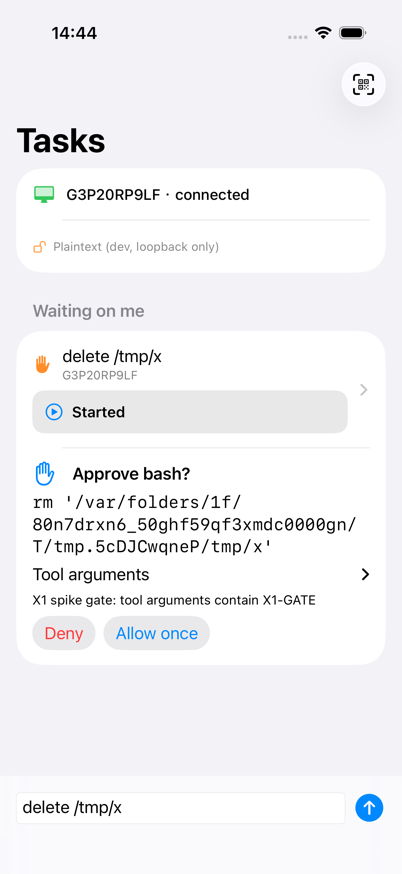
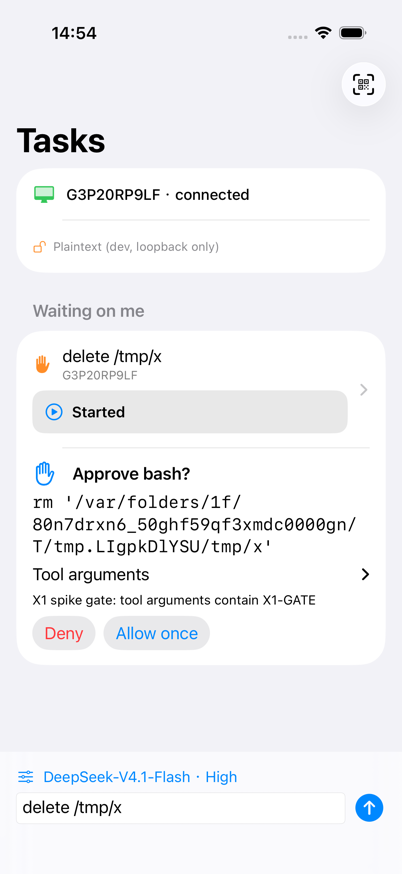
Recover held approvals and model choice across resume and interrupt

diff --git a/bridge/test/s2.test.ts b/bridge/test/s2.test.ts
@@ -3,6 +3,12 @@
  * that outlive the connection that created them. All against FakeDSH.
  */
 import assert from 'node:assert/strict'
+import { mkdtempSync, rmSync } from 'node:fs'
+import { tmpdir } from 'node:os'
+import { join } from 'node:path'
+import { ApprovalHolder } from '../src/approvals/holder.ts'
+import { ApprovalDecision, ApprovalOutcome } from '../src/gen/approvals_pb.ts'
+import { TaskHub } from '../src/s2/task-hub.ts'
 import { after, describe, test } from 'node:test'
 import { create, fromBinary, toBinary, type MessageInitShape } from '@bufbuild/protobuf'
 import { WebSocket } from 'ws'
@@ -17,7 +23,7 @@ import { FakeDSH, type FakeDSHOptions } from './fake-dsh.ts'
 type RequestBody = NonNullable<MessageInitShape<typeof FrameSchema>['kind']> extends infer K
   ? K extends { case: 'request'; value: infer V } ? V extends { body?: infer B } ? B : never : never : never
 
-async function connect(port: number) {
+async function connect(port: number, capabilities: string[] = []) {
   const ws = new WebSocket(`ws://127.0.0.1:${port}${PLAINTEXT_PATH}`)
   ws.binaryType = 'nodebuffer'
   const frames: Frame[] = []
@@ -55,7 +61,7 @@ async function connect(port: number) {
     },
     close() { ws.close() },
   }
-  await client.call({ case: 'hello', value: { protocolVersion: 1 } })
+  await client.call({ case: 'hello', value: { protocolVersion: 1, capabilities } })
   return client
 }
 
@@ -268,5 +274,53 @@ test('legacyResumeAndListOmitTemporaryUpstreamApprovalRows', async () => {
     if (list.body.case === 'taskList') assert.deepEqual(list.body.value.tasks, [])
   } finally {
     client.close()
+  }
+})
+
+test('waitingTaskSwitchesModelResumesBothFieldsAndInterruptCancelsApproval', async t => {
+  const dir = mkdtempSync(join(tmpdir(), 'dshm-waiting-task-'))
+  t.after(() => rmSync(dir, { recursive: true, force: true }))
+  const dsh = new FakeDSH({ reply: ['slow response'], chunkDelayMs: 2000 })
+  const tasks = new DshTasks(dsh, dir)
+  const hub = new TaskHub(tasks, new HostLog(1))
+  const approvals = new ApprovalHolder(join(dir, 'audit.jsonl'), event => hub.approvalChanged(event))
+  const server = await startBridgeServer({ host: '127.0.0.1', channel: new PlaintextChannel(), port: 0, tasks, hub, approvals })
+  servers.push(server)
+  const writer = await connect(server.port, ['approvals.v1'])
+  const created = await writer.call({ case: 'createTask', value: { prompt: 'hold for approval' } })
+  assert.ok(created.body.case === 'taskCreated')
+  const taskId = created.body.value.taskId
+  const held = approvals.hold({
+    agent: { session: { id: taskId, deriveMessages: () => [] } }, toolName: 'bash',
+  }, async () => 'unavailable')
+  const selection = { provider: 'provider', model: 'model', reasoningEffort: 'high' }
+  const changed = await writer.call({ case: 'selectModel', value: { taskId, selection } })
+  assert.equal(changed.body.case, 'modelSelected')
+  await writer.until(() => hub.list()[0].modelSelection?.reasoningEffort === 'high')
+  writer.close()
+
+  const reader = await connect(server.port, ['approvals.v1'])
+  try {
+    const resumed = await reader.call({ case: 'resume', value: { logId: hub.log.logId, afterSeq: 0n } })
+    assert.ok(resumed.body.case === 'resumed' && resumed.body.value.reset)
+    const listing = await reader.call({ case: 'listTasks', value: {} })
+    assert.ok(listing.body.case === 'taskList')
+    const [row] = listing.body.value.tasks
+    assert.equal(row.state, TaskState.WAITING_ON_USER)
+    assert.equal(row.modelSelection?.reasoningEffort, 'high')
+    assert.equal(row.pendingApprovals.length, 1)
+    const approvalId = row.pendingApprovals[0].id
+    const interrupted = await reader.call({ case: 'interrupt', value: { taskId } })
+    assert.equal(interrupted.body.case, 'interruptAccepted')
+    assert.equal(await held, 'cancelled')
+    const stale = await reader.call({ case: 'answerApproval', value: { id: approvalId, decision: ApprovalDecision.ALLOW_ONCE } })
+    assert.ok(stale.body.case === 'error' && stale.body.value.code === 'approval/refused')
+    await reader.until(frames => endedCount(frames) === 1)
+    assert.ok(reader.events().some(e => e.body.case === 'approvalResolved' && e.body.value.outcome === ApprovalOutcome.CANCELLED))
+    assert.equal(hub.list()[0].state, TaskState.INTERRUPTED)
+    assert.equal(hub.list()[0].pendingApprovals.length, 0)
+  } finally {
+    approvals.close()
+    reader.close()
   }
 })

diff --git a/bridge/src/gen/s2_pb.ts b/bridge/src/gen/s2_pb.ts
@@ -13,13 +13,15 @@ import type { GenEnum, GenFile, GenMessage } from "@bufbuild/protobuf/codegenv2"
 import { enumDesc, fileDesc, messageDesc } from "@bufbuild/protobuf/codegenv2";
 import type { ApprovalPending } from "./approvals_pb.js";
 import { file_approvals } from "./approvals_pb.js";
+import type { ModelSelection } from "./models_pb.js";
+import { file_models } from "./models_pb.js";
 import type { Message } from "@bufbuild/protobuf";
 
 /**
  * Describes the file s2.proto.
  */
 export const file_s2: GenFile = /*@__PURE__*/
[2 lines of base64/hex data omitted]
 
 /**
  * @generated from message dshm.v1.TaskSummary
@@ -72,6 +74,13 @@ export type TaskSummary = Message<"dshm.v1.TaskSummary"> & {
    * @generated from field: bool approval_only = 81;
    */
   approvalOnly: boolean;
+
+  /**
+   * Last selection reported by DSH, including when its event is older than the retained log.
+   *
+   * @generated from field: dshm.v1.ModelSelection model_selection = 120;
+   */
+  modelSelection?: ModelSelection | undefined;
 };
 
 /**

diff --git a/ios/dsh-mobileUITests/S4ApprovalUITests.swift b/ios/dsh-mobileUITests/S4ApprovalUITests.swift
@@ -86,4 +86,43 @@ final class S4ApprovalUITests: XCTestCase {
         XCTAssertTrue(card.waitForNonExistence(timeout: 10))
         try await post("/fake-web/close")
     }
+
+    func testSwitchWhileHeldResumeThenInterrupt() throws {
+        try XCTSkipIf(env["DSHM_S4_COMMAND"] == nil, "needs scripts/demo/s4.sh")
+        let command = try XCTUnwrap(env["DSHM_S4_COMMAND"])
+        var app = launch(reset: true)
+        let picker = app.buttons["model.open"]
+        XCTAssertTrue(picker.waitForExistence(timeout: 20))
+        picker.tap()
+        let low = app.buttons["model.effort.low"]
+        XCTAssertTrue(low.waitForExistence(timeout: 10))
+        low.tap()
+        app.buttons["model.apply"].tap()
+        send(app)
+        checkCommand(app, expected: command)
+
+        picker.tap()
+        let high = app.buttons["model.effort.high"]
+        XCTAssertTrue(high.waitForExistence(timeout: 10))
+        high.tap()
+        app.buttons["model.apply"].tap()
+        var transcript = app.descendants(matching: .any)["transcript.text"]
+        wait(for: [expectation(for: NSPredicate(format: "value CONTAINS %@", " · high]"), evaluatedWith: transcript)], timeout: 15)
+        checkCommand(app, expected: command)
+        app.terminate()
+
+        app = launch(reset: false)
+        checkCommand(app, expected: command)
+        let row = app.buttons.matching(identifier: "tasklist.row").matching(NSPredicate(format: "value == 'waitingOnUser'")).firstMatch
+        XCTAssertTrue(row.waitForExistence(timeout: 15), app.debugDescription)
+        row.tap()
+        transcript = app.descendants(matching: .any)["transcript.text"]
+        XCTAssertTrue((transcript.value as? String)?.contains(" · high]") == true)
+        let stop = app.buttons["task.interrupt"]
+        XCTAssertTrue(stop.waitForExistence(timeout: 10))
+        stop.tap()
+        waitForValue(app.descendants(matching: .any)["task.status"], in: ["interrupted"], timeout: 30)
+        XCTAssertTrue(app.buttons["approval.allow"].waitForNonExistence(timeout: 5))
+        saveShot("s4-interrupted-held-task")
+    }
 }

diff --git a/ios/DSHKit/Sources/DSHCore/Sync/TaskListStore.swift b/ios/DSHKit/Sources/DSHCore/Sync/TaskListStore.swift
@@ -361,11 +361,7 @@ public final class TaskListStore {
             task.logID = host.logID
         case .modelSelected(let taskID, let selection):
             let task = taskRecord(hostKey: link.key, taskID: taskID, title: "")
-            let data = try? selection.serializedData()
-            if task.modelSelectionData != data {
-                task.modelSelectionData = data
-                task.transcript += selection.transcriptLine
-            }
+            applyModel(selection, to: task)
             task.logID = host.logID
         case .ended(let taskID, let status, let message):
             let task = taskRecord(hostKey: link.key, taskID: taskID, title: "")
@@ -429,9 +425,18 @@ public final class TaskListStore {
         let regresses = task.state.isTerminal && !snapshot.state.isTerminal
         if snapshot.updatedAt > task.updatedAt || (snapshot.updatedAt == task.updatedAt && !regresses) {
             task.approvals = snapshot.approvals
+            if let selection = snapshot.modelSelection { applyModel(selection, to: task) }
             task.state = snapshot.state
             task.message = snapshot.message
             task.updatedAt = snapshot.updatedAt
+        }
+    }
+
+    private func applyModel(_ selection: ModelSelection, to task: CachedTask) {
+        let data = try? selection.serializedData()
+        if task.modelSelectionData != data {
+            task.modelSelectionData = data
+            task.transcript += selection.transcriptLine
         }
     }
 

diff --git a/bridge/src/s2/task-hub.ts b/bridge/src/s2/task-hub.ts
@@ -19,7 +19,8 @@ export interface TaskStarter {
   start(prompt: string, signal: AbortSignal, selection?: Selection): Promise<StartedTask>
 }
 
-type Summary = Omit<TaskSummary, '$typeName' | '$unknown' | 'pendingApprovals'> & { pendingApprovals: Pending[] }
+type Summary = Omit<TaskSummary, '$typeName' | '$unknown' | 'pendingApprovals' | 'modelSelection'>
+  & { pendingApprovals: Pending[]; modelSelection?: Selection }
 
 export class TaskHub {
   private readonly summaries = new Map<string, Summary>()
@@ -118,6 +119,8 @@ export class TaskHub {
         if (out.kind === 'text') {
           this.log.append(task.taskId, { case: 'assistantChunk', value: { taskId: task.taskId, seq: ++seq, text: out.text } })
         } else if (out.kind === 'model') {
+          summary.modelSelection = out.selection
+          summary.updatedAtMs = BigInt(this.now())
           this.log.append(task.taskId, { case: 'modelSelected', value: { taskId: task.taskId, selection: out.selection } })
         } else if (out.kind === 'milestone') {
           // S3: milestones are logged like any other event, so Resume replays them (S2 × S3 seam).

diff --git a/ios/DSHKit/Sources/DSHCore/HostConnection.swift b/ios/DSHKit/Sources/DSHCore/HostConnection.swift
@@ -70,6 +70,7 @@ public struct TaskSnapshot: Sendable, Equatable {
     public var message: String
     public var approvals: [Approval] = []
     public var approvalOnly = false
+    public var modelSelection: ModelSelection?
 
     public init(taskID: String, title: String, state: TaskState, createdAt: Date, updatedAt: Date, message: String = "") {
         self.taskID = taskID
@@ -95,6 +96,7 @@ public struct TaskSnapshot: Sendable, Equatable {
             message: s.message)
         approvals = s.pendingApprovals.map(Approval.init)
         approvalOnly = s.approvalOnly
+        modelSelection = s.hasModelSelection ? s.modelSelection : nil
     }
 }
 

diff --git a/ARCHITECTURE.md b/ARCHITECTURE.md
@@ -117,7 +117,7 @@ Solid arrows are the outbound path (user → executor), dashed arrows the return
 | D22 | *Provisional, pending user confirmation (S1, 2026-11-05).* **No Secure Enclave identity key in M1.** The phone's only key is its Noise static key (X25519, 32 bytes) in the Keychain (`kSecAttrAccessibleAfterFirstUnlockThisDeviceOnly`, never synced or backed up), one per device and shared by every paired host. The bridge's device registry is keyed by it, and IK authenticates it on every connection. A Secure Enclave P-256 signing key comes back when something needs a signature that the transport can't give: Face ID-gated approvals for the top risk tier and a non-repudiable audit trail (M2). | The X2 open question. The SE key would add nothing to M1: Noise can't use P-256 (CryptoKit's SE supports P-256 only, Noise here is X25519), so it would be a second, unused identity to register and keep in sync. Alternatives: SE P-256 key now, signing a registration blob (more code and state, no M1 consumer); per-host Noise keys (unlinkable across hosts, but more Keychain state; revisit with S9 multi-host). |
 | D23 | *Provisional, pending user confirmation (batch 1 integration, 2026-11-05).* **S2 × S3 seam: cached milestones.** (a) **Bridge**: `MilestoneAdded` is a host-log event like any other (`TaskHub` numbers it with `host_seq`), so `Resume` replays missed milestones exactly once. (b) **App**: `CachedTask.milestonesData` holds the task's whole `MilestoneTimeline` as JSON (`MilestoneTimeline` is `Codable`); `TaskListStore` adds each milestone through `MilestoneTimeline.add`, which drops stale or repeated seqs, so replays are idempotent. `TaskRow.milestones` feeds the `MilestoneCard` in the list row (no chevron there; `maxTodos` 3) and in the task detail, which opens the timeline. (c) **Test support**: `FakeHost` task ids carry a per-instance random prefix, like DSH session ids, so a task cached by an earlier launch never collides with a new one. Alternatives considered: cache only the latest milestone (enough for the card, since each one carries the whole todo list, but the detail timeline would then be empty after a reopen); a SwiftData `CachedMilestone` model per milestone (queryable, but more schema and a relationship for data only ever read whole); a `latest_milestone` field on `TaskSummary` for `ListTasks` (helps after a bridge restart, but the in-memory log is gone then anyway, D20). | Milestone timelines are short (tens of entries) and always read whole. The card and the timeline stay in the cache across kill/reopen and with the host offline (STORY principle 4). |
 | D24 | *Provisional, pending user confirmation (batch 1 integration, 2026-11-05).* **S1 × S2 seam: the durable list over Noise.** (a) **App composition** (`ios/dsh-mobile/AppComposition.swift`): S1's `AppModel` owns one SwiftData container and one `TaskListStore` for the one host it talks to: the paired host over `NoiseChannel` (cache key `noise:<PairedHost.id>`), else in Debug the loopback dev bridge over `PlaintextChannel` (`bridge:<host:port>`) or `FakeHost` (`fake:<host:port>`). Pairing a host backgrounds the old store and starts a new one at once (the scene is already active). (b) **Reconnect** = `HostConnection.connect()` again: every connection runs a fresh handshake (IK for a paired host), then `TaskListStore` sends `Resume` from the cached cursor; the cipher, outbox and receive loop belong to one connection generation, so a stale loop never tears down a newer connection. (c) **UI**: the list's host section shows the channel (`host.channel`, value `noise` / `plaintext`) under the host status; the pairing button (`pairing.scan`) is in the list's toolbar. (d) **Local demos**: `scripts/demo/s2-host.mjs` and `s3-host.mjs` set the bridge to `host: 127.0.0.1, devPlaintext: true` in their `cordis.patch.yml`, since S1 made Noise-only on 0.0.0.0 the default and those demos drive the unpaired Debug path. Alternatives considered: one store per pairing that keeps the old host's connection open (that is S9's multi-host); resuming the Noise session instead of a new IK handshake per reconnect (Noise has no session resumption; a new handshake costs one round trip). | Keeps S2's single-host store unchanged while S1 decides which host and channel it is; S9 turns the one host into every paired host. |
-| D25 | *Provisional, pending user confirmation (S4, 2026-11-05).* **Held approvals.** Each DSH approval is addressed by a host-generated request UUID. The holder joins the call ID and tool name with the committed assistant message in the DSH session, preserving the original arguments. A phone can deny a request whose arguments are unavailable. It can grant one operation when details are present. D17 governs fan-out to other clients. An upstream session started outside the bridge appears only while it has pending approvals. Its last answer withdraws the card without changing the session's lifecycle. The first decision persists to `approvals.jsonl` under the protected bridge state directory before release. The host records the Noise device ID for mobile answers. The upstream waterfall exposes only the outcome of a web/desktop answer, so those entries identify the owner and DSH client collectively. `approvalTimeoutMs` defaults to 24 hours and expires to rejection. | A fresh request ID prevents an old button from answering a later call. Snapshotting every pending request in S2 task summaries also recovers requests older than the retained event log. Alternatives considered: use the tool call ID as the approval ID (it can repeat), or rely only on event replay (a trimmed log can lose a pending card). |
+| D25 | *Provisional, pending user confirmation (S4, 2026-11-05).* **Held approvals.** Each DSH approval is addressed by a host-generated request UUID. The holder joins the call ID and tool name with the committed assistant message in the DSH session, preserving the original arguments. A phone can deny a request whose arguments are unavailable. It can grant one operation when details are present. D17 governs fan-out to other clients. An upstream session started outside the bridge appears only while it has pending approvals. Its last answer withdraws the card without changing the session's lifecycle. The first decision persists to `approvals.jsonl` under the protected bridge state directory before release. The host records the Noise device ID for mobile answers. The upstream waterfall exposes only the outcome of a web/desktop answer, so those entries identify the owner and DSH client collectively. `approvalTimeoutMs` defaults to 24 hours and expires to rejection. | A fresh request ID prevents an old button from answering a later call. S2 summaries include every pending request and the last model selection reported by DSH, so a reset can restore both after events are trimmed. Interrupting a bridge task cancels held requests before the interrupt acknowledgement; an upstream approval-only row accepts only an approval decision. Alternatives considered: use the tool call ID as the approval ID (it can repeat), or rely only on event replay (a trimmed log can lose a pending card). |
 | D28 | *Provisional, pending user confirmation (S5, 2026-11-05).* **Interrupt.** The bridge calls DSH `sessionController.cancel({ sessionId })`. Its response acknowledges the request. Only the durable `turn/end` with `reason.kind = aborted` and nested cause `user` produces an interrupted task and milestone; other failure causes keep their existing mapping. | The host decides which result wins when completion races a stop. Marking the task stopped on tap or on acceptance could contradict the session log on resume. DSH's separate `interrupted` end reason records crash recovery. |
 | D31 | *Provisional, pending user confirmation (S6, 2026-11-05).* **Model choice**: Each connection with `models.v1` supplies DSH's ordered provider groups, model and reasoning-effort IDs, display names and defaults. An explicit composer choice travels with `CreateTask`; the bridge selects it on the new session before sending its first prompt. Active tasks use the same upstream `selectModel`. DSH also saves that selection as its host default. Its durable `model/selection` events go into the S2 host log and the cached transcript. | Selecting after prompting would let the first step use another model. Recording only a phone-side acknowledgement would miss changes while disconnected or from another client. |
 

diff --git a/PLAN.md b/PLAN.md
@@ -443,9 +443,9 @@ Each slice needs only T0, unless "Needs" says otherwise.
 - [x] [auto] A pending approval survives a trimmed resume log and a stale answer cannot release a second request — Evidence: test:trimmedResumeRetainsPendingAndStaleAnswerCannotReleaseNextRequest
 - [x] [auto] An approval from an upstream session can be answered by the phone or the downstream owner, with one resolution — Evidence: test:upstreamSessionIsVisibleOnlyWhileAnApprovalIsHeld
 - [x] [ui] An approval created outside the phone appears after reconnect, and a web answer removes it from the phone — Evidence: test:S4ApprovalUITests/testUpstreamWebApprovalAppearsAfterReconnectAndWebAnswerWithdrawsIt · shot:evidence/S4/s4-upstream-reopened.png
-- [ ] [auto] A waiting task accepts a model switch, and interrupting it cancels its approval before a stale answer can grant permission — Evidence:
-- [ ] [auto] Resuming a waiting task restores its approval and selected model together — Evidence:
-- [ ] [ui] Switch effort on a held task, reopen it, then interrupt: the approval is withdrawn and the task is interrupted — Evidence:
+- [x] [auto] A waiting task accepts a model switch, and interrupting it cancels its approval before a stale answer can grant permission — Evidence: test:waitingTaskSwitchesModelResumesBothFieldsAndInterruptCancelsApproval
+- [x] [auto] Resuming a waiting task restores its approval and selected model together — Evidence: test:waitingTaskSwitchesModelResumesBothFieldsAndInterruptCancelsApproval
+- [x] [ui] Switch effort on a held task, reopen it, then interrupt: the approval is withdrawn and the task is interrupted — Evidence: test:S4ApprovalUITests/testSwitchWhileHeldResumeThenInterrupt · cmd:scripts/demo/s4.sh · shot:evidence/S4/s4-interrupted-held-task.png
 
 **Not**: risk tiers, Face ID, push (M2).
 
@@ -458,6 +458,8 @@ Each slice needs only T0, unless "Needs" says otherwise.
 - **2026-11-05**: T0 passed on the assigned simulator (41 bridge, 46 Swift and 4 UI tests). Implemented the D17 holder, typed approval frames and fixtures, authenticated device audit, SwiftData caching and actionable cards. The host stores approval-only rows for upstream sessions until the final pending request closes. A bridge with a trimmed log can restore pending cards from its task snapshots. Older clients do not receive temporary rows.
   - `scripts/demo/s4.sh` runs the real DSH bridge and mock model. The deletion target is a disposable fixture ending in `tmp/x`; the app shows its exact command. The test verifies DSH actually reported rejection to the model and the file remained intact. X1's real remote-event gateway fixture handles the web answer in the upstream-session test. All three simulator tests passed. Final bridge suite: 46 tests. Swift: 46 tests. No new dependencies. One intermediate Swift run missed a transient milestone in an existing timing assertion; subsequent full suites passed.
   - Provisional D25 records the timeout, audit attribution, explicit request identity and the S2 snapshot choice. Independent UI rerun and merge belong to the coordinator.
+- **2026-11-05 · S4 × S5 × S6 integration.** Merged S4 into the integrated S5/S6 branch at `ef34e70`. Per-host Hello capabilities drive all three controls. A task waiting on an approval can switch models. The host's task snapshot restores both pending approvals and its last observed selection after a log reset. Interrupting a bridge task closes its pending approvals before acknowledging; an already-closed request cannot authorize execution. Upstream approval-only sessions expose the approval card without task controls.
+  - Verified on the assigned S4 simulator and real DSH: chose low effort, waited for the deletion request, switched to high while held, reopened the app, found the same command and high-effort transcript, then interrupted. The card disappeared, the task showed interrupted, and the fixture survived. Automatic checks: 51 bridge + 47 Swift tests; `scripts/demo/s4.sh` ran the 4 S4 UI cases. Independent review is the coordinator's next step. No new dependencies; D25 now records this integration.
 
 ### S5 · Interrupt
 
